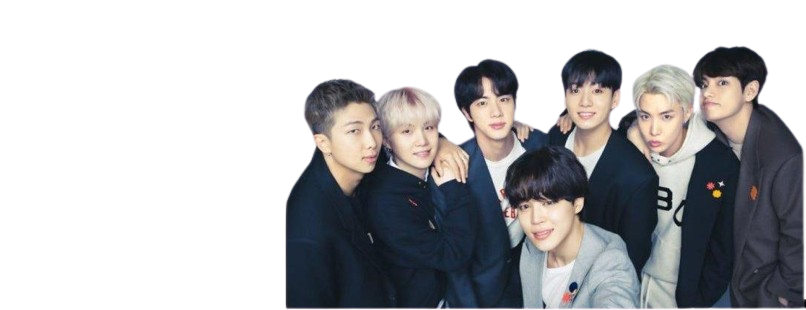
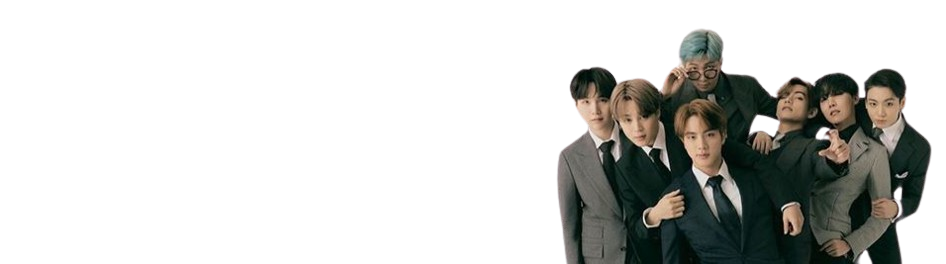
perubahan pada css music dan tambah foto

diff --git a/static/css/style_music.css b/static/css/style_music.css
@@ -437,7 +437,7 @@ header .song_side::before {
     position: absolute;
     width: 100%;
     height: 285px;
-    background: url('../img/tampilan.png');
+    background: url('../img/a.png');
     z-index: -1;
 }
 
